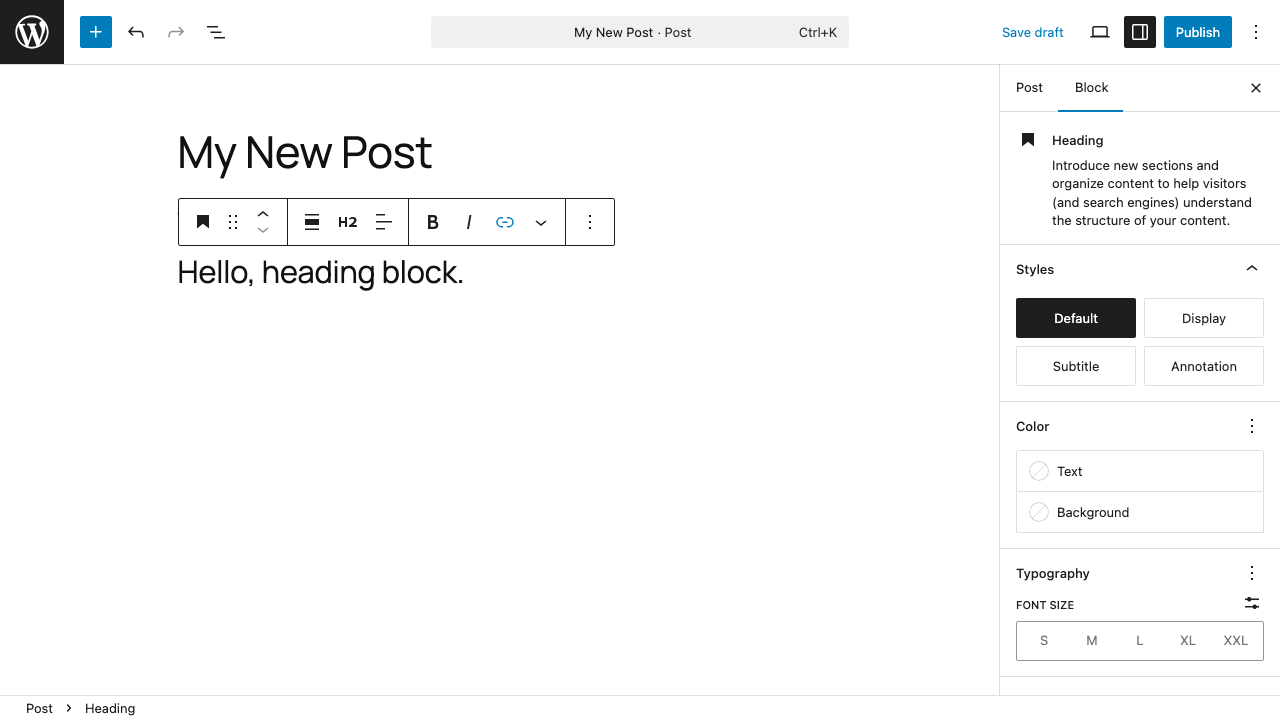
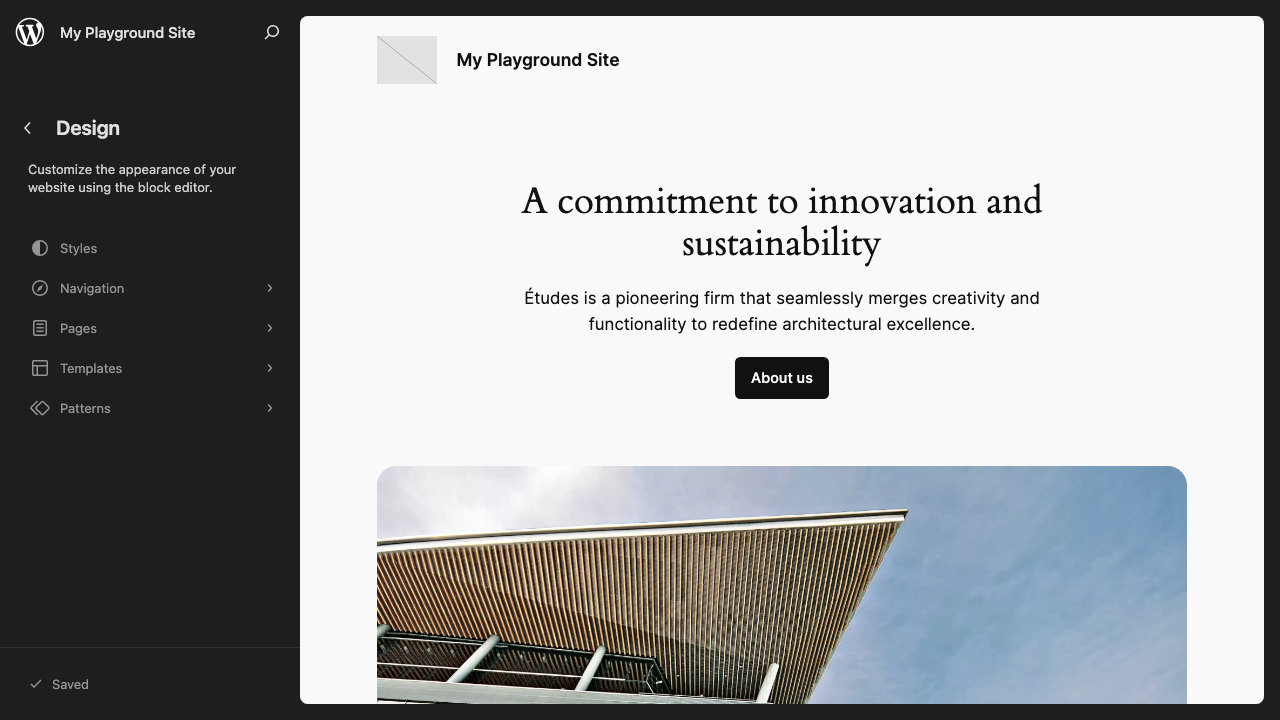
Playground initial implementation

diff --git a/public/app.js b/public/app.js
@@ -15,10 +15,8 @@ const runBtn = document.getElementById('run-btn');
 const statusEl = document.getElementById('status');
 
 // ── Blueprint elements ────────────────────────────────────────────────────────
-const blueprintInput = document.getElementById('blueprint-input');
-const blueprintBtn = document.getElementById('blueprint-btn');
+const blueprintTestBtn = document.getElementById('blueprint-test-btn');
 const blueprintResetBtn = document.getElementById('blueprint-reset-btn');
-const blueprintStatusEl = document.getElementById('blueprint-status');
 /** @type {HTMLTextAreaElement} */
 const blueprintPreview = /** @type {any} */ (document.getElementById('blueprint-preview'));
 const blueprintError = document.getElementById('blueprint-error');
@@ -79,6 +77,8 @@ function stopScreencast() {
 let steps = [];
 /** @type {object|null} */
 let blueprint = null;
+/** @type {object|null} */
+let defaultBlueprint = null;
 let updatingStepsFromCode = false;
 let updatingBlueprintFromCode = false;
 /** @type {string[]} */
@@ -213,7 +213,8 @@ function renderBlueprint() {
   updatingBlueprintFromCode = false;
   blueprintPreview.classList.remove('invalid');
   blueprintError.classList.add('hidden');
-  blueprintBadge.classList.toggle('hidden', !blueprint);
+  const isModified = defaultBlueprint && JSON.stringify(blueprint) !== JSON.stringify(defaultBlueprint);
+  blueprintBadge.classList.toggle('hidden', !isModified);
 }
 
 // ── Status helpers ────────────────────────────────────────────────────────────
@@ -245,7 +246,7 @@ function onBlueprintEdit() {
   if (updatingBlueprintFromCode) return;
   const val = blueprintPreview.value.trim();
   if (!val) {
-    blueprint = null;
+    blueprint = defaultBlueprint;
     blueprintPreview.classList.remove('invalid');
     blueprintError.classList.add('hidden');
     blueprintBadge.classList.add('hidden');
@@ -255,7 +256,8 @@ function onBlueprintEdit() {
     blueprint = JSON.parse(val);
     blueprintPreview.classList.remove('invalid');
     blueprintError.classList.add('hidden');
-    blueprintBadge.classList.remove('hidden');
+    const isModified = defaultBlueprint && JSON.stringify(blueprint) !== JSON.stringify(defaultBlueprint);
+    blueprintBadge.classList.toggle('hidden', !isModified);
   } catch (err) {
     blueprintPreview.classList.add('invalid');
     blueprintError.textContent = err.message;
@@ -293,37 +295,33 @@ async function addCommand() {
   }
 }
 
-async function generateBlueprint() {
-  const command = blueprintInput.value.trim();
-  if (!command) return;
-
-  blueprintBtn.disabled = true;
-  blueprintInput.disabled = true;
-  setStatus(blueprintStatusEl, 'Generating blueprint…');
-
-  try {
-    const res = await fetch('/api/blueprint', {
-      method: 'POST',
-      headers: { 'Content-Type': 'application/json' },
-      body: JSON.stringify({ command }),
-    });
-    const data = await res.json();
-    if (!res.ok) throw new Error(data.error || 'Blueprint generation failed');
-    blueprint = data.blueprint;
-    renderBlueprint();
-    blueprintInput.value = '';
-    setStatus(blueprintStatusEl, 'Blueprint generated');
-  } catch (err) {
-    setStatus(blueprintStatusEl, err.message, true);
-  } finally {
-    blueprintBtn.disabled = false;
-    blueprintInput.disabled = false;
-  }
+function resetBlueprint() {
+  blueprint = defaultBlueprint;
+  renderBlueprint();
 }
 
-function resetBlueprint() {
-  blueprint = null;
-  renderBlueprint();
+async function testBlueprint() {
+  if (!blueprint) return;
+  blueprintTestBtn.disabled = true;
+  blueprintTestBtn.textContent = 'Starting…';
+
+  try {
+    const res = await fetch('/api/preview-blueprint', {
+      method: 'POST',
+      headers: { 'Content-Type': 'application/json' },
+      body: JSON.stringify({ blueprint }),
+    });
+    const data = await res.json();
+    if (!res.ok) throw new Error(data.error || 'Failed to start preview');
+    window.open(data.url, '_blank');
+  } catch (err) {
+    blueprintError.textContent = err.message;
+    blueprintError.classList.remove('hidden');
+    setTimeout(() => blueprintError.classList.add('hidden'), 5000);
+  } finally {
+    blueprintTestBtn.disabled = false;
+    blueprintTestBtn.innerHTML = '&#9654; Test in Playground';
+  }
 }
 
 async function runSteps() {
@@ -531,8 +529,7 @@ runBtn.addEventListener('click', runSteps);
 
 jsonPreview.addEventListener('input', onStepsEdit);
 
-blueprintBtn.addEventListener('click', generateBlueprint);
-blueprintInput.addEventListener('keydown', (e) => { if (e.key === 'Enter') generateBlueprint(); });
+blueprintTestBtn.addEventListener('click', testBlueprint);
 blueprintResetBtn.addEventListener('click', resetBlueprint);
 blueprintPreview.addEventListener('input', onBlueprintEdit);
 
@@ -546,5 +543,11 @@ selectAllCheckbox.addEventListener('change', () => {
 });
 
 renderSteps();
-renderBlueprint();
+fetch('/api/default-blueprint')
+  .then((r) => r.json())
+  .then(({ blueprint: bp }) => {
+    defaultBlueprint = bp;
+    blueprint = bp;
+    renderBlueprint();
+  });
 loadSavedScripts();

diff --git a/server.js b/server.js
@@ -11,7 +11,10 @@ const app = express();
 const client = new Anthropic.default();
 
 const PID_FILE = path.join(__dirname, '.wp-playground.pid');
+const PREVIEW_PID_FILE = path.join(__dirname, '.wp-playground-preview.pid');
 const GENERATED_BLUEPRINT = path.join(__dirname, 'blueprint.generated.json');
+const PREVIEW_BLUEPRINT = path.join(__dirname, 'blueprint.preview.json');
+const PREVIEW_PORT = 9401;
 
 app.use(express.json());
 app.use(express.static(path.join(__dirname, 'public')));
@@ -182,6 +185,40 @@ function startPlayground(blueprintPath, onData) {
   });
 }
 
+function killPreviewPlayground() {
+  if (!fs.existsSync(PREVIEW_PID_FILE)) return;
+  const pid = parseInt(fs.readFileSync(PREVIEW_PID_FILE, 'utf8'));
+  try { process.kill(pid, 'SIGTERM'); } catch {}
+  fs.unlinkSync(PREVIEW_PID_FILE);
+}
+
+function startPreviewPlayground(blueprintPath) {
+  return new Promise((resolve, reject) => {
+    const server = spawn(
+      'npx',
+      ['@wp-playground/cli', 'server', `--port=${PREVIEW_PORT}`, '--login', `--blueprint=${blueprintPath}`],
+      { stdio: ['ignore', 'pipe', 'pipe'], detached: true, cwd: __dirname }
+    );
+
+    const timeout = setTimeout(
+      () => reject(new Error('Preview Playground did not start within 120s')),
+      120_000
+    );
+
+    server.stdout.on('data', (data) => {
+      if (data.toString().includes('Ready!')) {
+        clearTimeout(timeout);
+        fs.writeFileSync(PREVIEW_PID_FILE, server.pid.toString());
+        server.unref();
+        resolve();
+      }
+    });
+
+    server.stderr.on('data', () => {});
+    server.on('error', (err) => { clearTimeout(timeout); reject(err); });
+  });
+}
+
 // ─── API endpoints ────────────────────────────────────────────────────────────
 
 app.post('/api/translate', async (req, res) => {
@@ -261,6 +298,31 @@ app.post('/api/blueprint', async (req, res) => {
     const toolUse = message.content.find((b) => b.type === 'tool_use');
     const blueprint = normalizeBlueprintShorthands(toolUse?.input ?? {});
     res.json({ blueprint });
+  } catch (err) {
+    console.error(err);
+    res.status(500).json({ error: err.message });
+  }
+});
+
+app.get('/api/default-blueprint', (req, res) => {
+  try {
+    const bp = JSON.parse(fs.readFileSync(path.join(__dirname, 'blueprint.json'), 'utf8'));
+    res.json({ blueprint: bp });
+  } catch (err) {
+    res.status(500).json({ error: err.message });
+  }
+});
+
+app.post('/api/preview-blueprint', async (req, res) => {
+  const { blueprint } = req.body;
+  if (!blueprint) return res.status(400).json({ error: 'blueprint required' });
+
+  try {
+    killPreviewPlayground();
+    fs.writeFileSync(PREVIEW_BLUEPRINT, JSON.stringify(blueprint, null, 2));
+    await startPreviewPlayground(PREVIEW_BLUEPRINT);
+    const landingPage = blueprint.landingPage || '/';
+    res.json({ url: `http://localhost:${PREVIEW_PORT}${landingPage}` });
   } catch (err) {
     console.error(err);
     res.status(500).json({ error: err.message });

diff --git a/public/style.css b/public/style.css
@@ -74,47 +74,25 @@ header p {
   padding: 0 1.5rem 1rem;
 }
 
-.blueprint-command-bar {
+.blueprint-toolbar {
   display: flex;
-  gap: 0.6rem;
+  justify-content: flex-end;
   margin-bottom: 0.6rem;
 }
 
-.blueprint-command-bar input {
-  flex: 1;
-  background: #1a2035;
-  border: 1px solid #2d3748;
+.blueprint-toolbar button.secondary {
+  background: transparent;
+  border: 1px solid #374151;
   border-radius: 6px;
-  color: #f1f5f9;
-  font-size: 0.88rem;
-  padding: 0.5rem 0.8rem;
-  outline: none;
-  transition: border-color 0.15s;
-}
-
-.blueprint-command-bar input:focus { border-color: #6366f1; }
-
-.blueprint-command-bar button {
-  background: #6366f1;
-  border: none;
-  border-radius: 6px;
-  color: #fff;
+  color: #94a3b8;
   cursor: pointer;
   font-size: 0.85rem;
   font-weight: 500;
-  padding: 0.5rem 1rem;
-  transition: background 0.15s;
+  padding: 0.4rem 0.8rem;
+  transition: border-color 0.15s, color 0.15s;
   white-space: nowrap;
 }
-
-.blueprint-command-bar button:hover { background: #4f46e5; }
-.blueprint-command-bar button:disabled { background: #374151; cursor: not-allowed; }
-.blueprint-command-bar button.secondary {
-  background: transparent;
-  border: 1px solid #374151;
-  color: #94a3b8;
-}
-.blueprint-command-bar button.secondary:hover { border-color: #6b7280; color: #e2e8f0; background: transparent; }
+.blueprint-toolbar button.secondary:hover { border-color: #6b7280; color: #e2e8f0; }
 
 .blueprint-editor { position: relative; }
 

diff --git a/public/index.html b/public/index.html
@@ -75,12 +75,10 @@
       <span id="blueprint-badge" class="badge hidden">custom</span>
     </summary>
     <div class="blueprint-body">
-      <div class="blueprint-command-bar">
-        <input id="blueprint-input" type="text" placeholder="e.g. WordPress 6.5, install Query Monitor and Advanced Query Loop" autocomplete="off">
-        <button id="blueprint-btn">Generate</button>
-        <button id="blueprint-reset-btn" class="secondary">Reset</button>
+      <div class="blueprint-toolbar">
+        <button id="blueprint-test-btn" class="secondary">&#9654; Test in Playground</button>
+        <button id="blueprint-reset-btn" class="secondary">Reset to default</button>
       </div>
-      <div id="blueprint-status" class="status hidden"></div>
       <div class="blueprint-editor">
         <textarea id="blueprint-preview" spellcheck="false"></textarea>
         <p id="blueprint-error" class="json-error hidden"></p>
